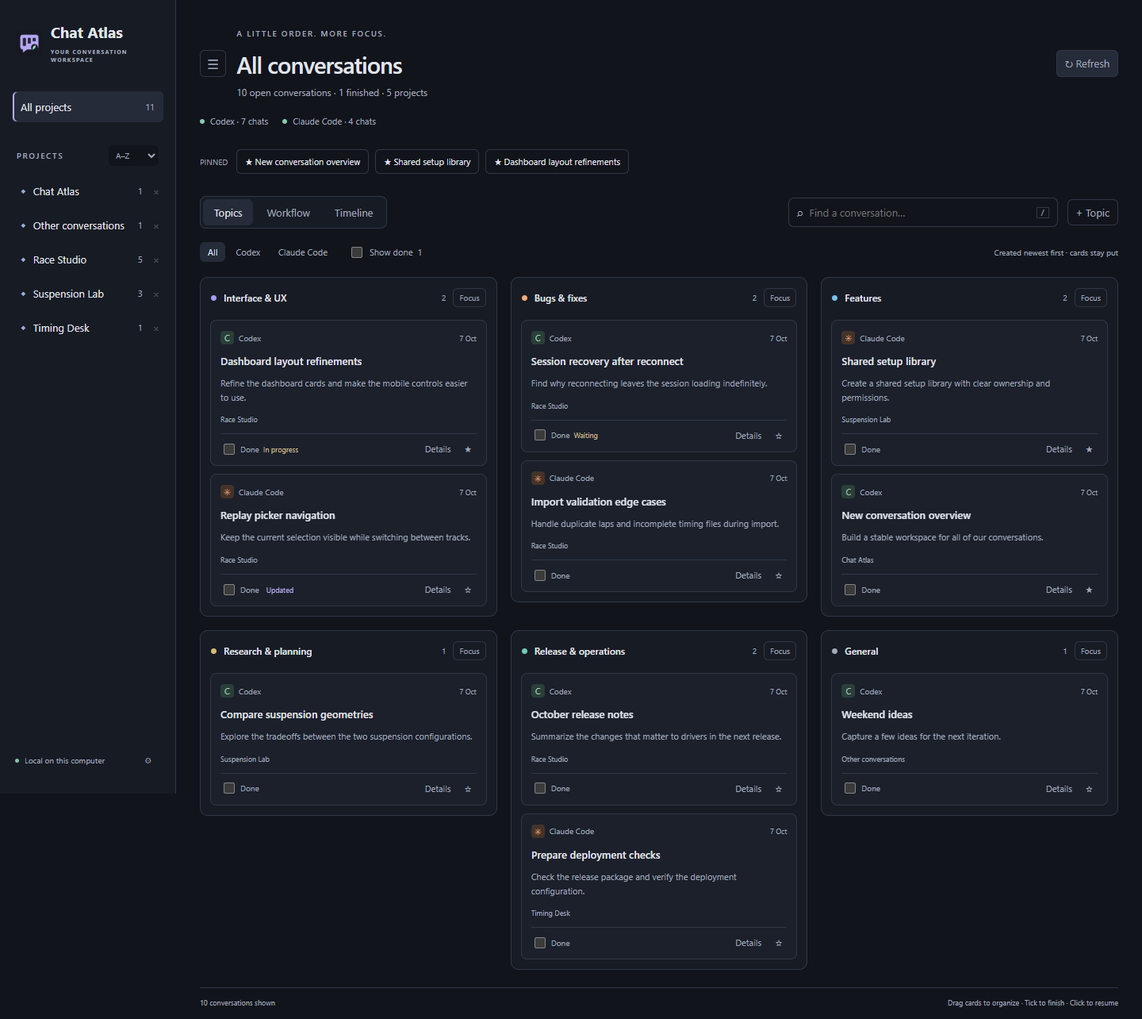
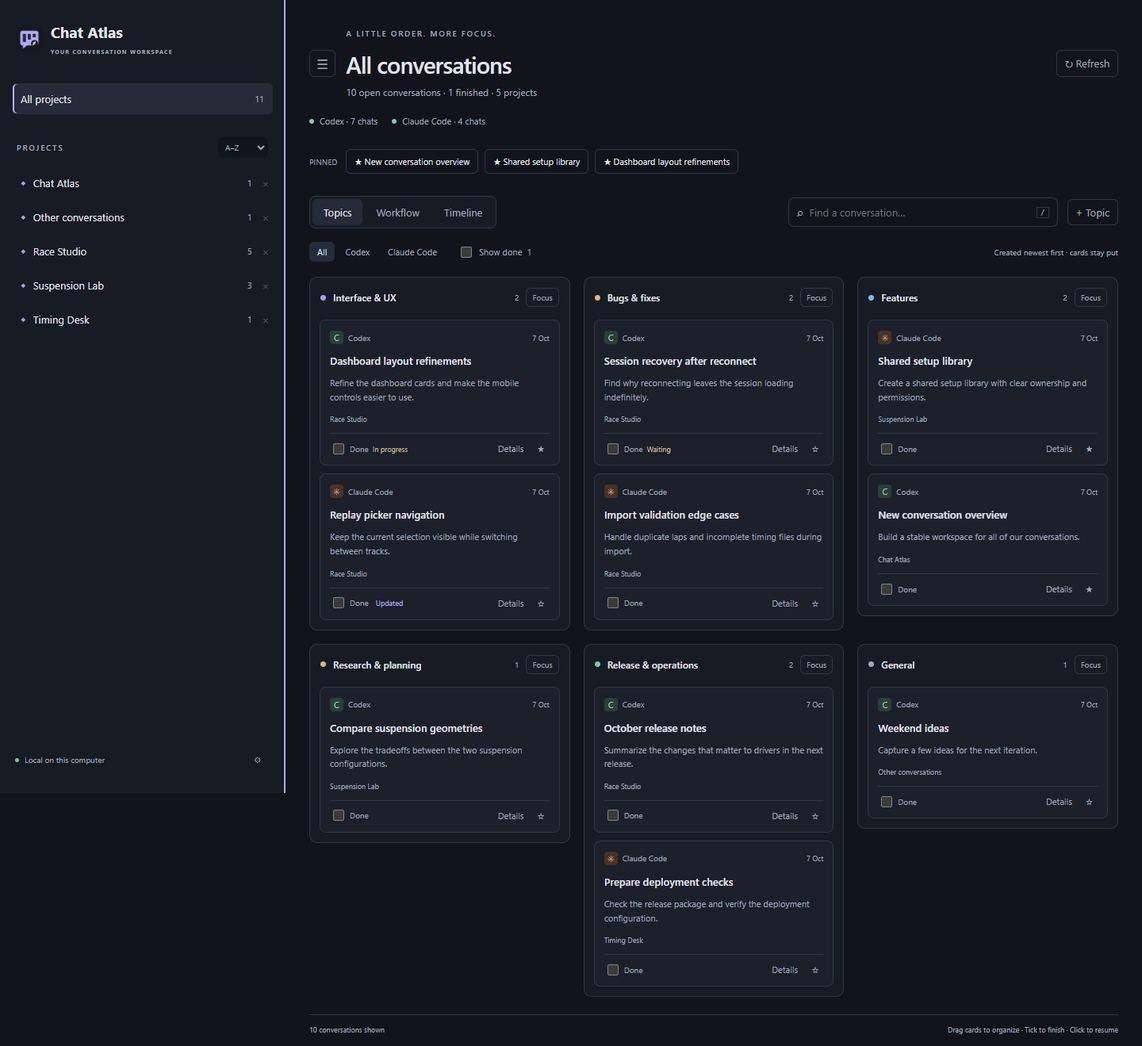
Add a persistent resizable project sidebar

diff --git a/media/board.css b/media/board.css
@@ -2,8 +2,11 @@
 *{box-sizing:border-box}body{margin:0;background:var(--bg);color:var(--text)}button,input,textarea,select{font:inherit;color:inherit}button{cursor:pointer;border:1px solid transparent;background:transparent;border-radius:6px;padding:7px 10px}button:hover{background:var(--hover)}button:focus-visible,input:focus-visible,textarea:focus-visible,select:focus-visible{outline:2px solid var(--accent);outline-offset:2px}input,textarea,select{background:var(--bg);border:1px solid var(--line);border-radius:6px;padding:9px}button:disabled{opacity:.5;cursor:wait}[hidden]{display:none!important}.app{display:flex;min-height:100vh}.rail{width:222px;flex-shrink:0;background:var(--panel);border-right:1px solid var(--line);padding:27px 15px;display:flex;flex-direction:column;position:sticky;top:0;height:100vh}.brand{display:flex;align-items:center;gap:10px;font-size:19px;font-weight:650;margin:0 5px 35px}.brand-icon{color:#b9adff;font-size:32px}.brand small{display:block;font-size:7px;letter-spacing:1.3px;color:var(--muted);margin-top:7px}.eyebrow{font-size:10px;font-weight:600;letter-spacing:1.7px;color:var(--muted);margin:0 0 13px}.rail>.eyebrow{margin:30px 10px 12px}.nav{width:100%;text-align:left;display:flex;align-items:center;gap:9px;margin-bottom:4px;padding:10px;min-width:0}.nav .project-name{overflow:hidden;text-overflow:ellipsis;white-space:nowrap;flex:1}.nav span:last-child{margin-left:auto;color:var(--muted);font-size:11px}.nav.active{background:var(--hover);color:var(--text);box-shadow:inset 2px 0 #b5a9f5}.project-dot{font-size:8px;color:#9bafd1}#projects{overflow:auto}.rail-bottom{margin-top:auto;padding:22px 4px 0;display:flex;align-items:center;gap:7px;color:var(--muted);font-size:10px}.rail-bottom button{margin-left:auto}.local-dot{width:5px;height:5px;background:#80c6a9;border-radius:50%}main{padding:35px 30px 15px;min-width:0;flex:1}header{display:flex;justify-content:space-between;align-items:center;gap:20px;margin-bottom:21px}h1{font-size:29px;letter-spacing:-.9px;font-weight:550;margin:0 0 8px}.subtitle{color:var(--muted);margin:0;font-size:12px}.quiet{border-color:var(--line);white-space:nowrap;color:var(--muted)}.sources{display:flex;gap:18px;flex-wrap:wrap;margin-bottom:28px;color:var(--muted);font-size:11px}.source{display:flex;gap:7px;align-items:center}.source-dot{width:6px;height:6px;border-radius:50%;background:#86cbb1}.source.missing .source-dot,.source.error .source-dot{background:#8c94a5}.source button{padding:0;color:inherit;text-decoration:underline}.toolbar{display:flex;gap:12px;align-items:center;margin-bottom:17px}.segments{display:flex;gap:3px;background:var(--panel);padding:3px;border:1px solid var(--line);border-radius:8px}.segments button{padding:7px 13px;color:var(--muted)}.segments .active{background:var(--hover);color:var(--text)}.search{margin-left:auto;display:flex;align-items:center;gap:8px;border:1px solid var(--line);border-radius:7px;padding:0 10px;max-width:340px;min-width:150px;flex:1;color:var(--muted)}.search input{border:0;background:transparent;min-width:0;width:100%;padding:9px 0}.search kbd{font-size:10px;border:1px solid var(--line);padding:0 4px}.filterbar{display:flex;align-items:center;gap:16px;color:var(--muted);font-size:11px;padding-bottom:19px}.provider-filters{display:flex;gap:3px}.provider-filters button{padding:4px 9px;color:var(--muted)}.provider-filters .active{color:var(--text);background:var(--hover)}.done-filter{display:flex;align-items:center;gap:6px;cursor:pointer}.done-filter input,.done-checkbox{accent-color:#a99dec;cursor:pointer;width:14px;height:14px}#done-count{color:var(--muted)}#order-label{margin-left:auto;font-size:10px}.board{display:grid;grid-template-columns:repeat(auto-fit,minmax(240px,1fr));gap:17px;align-items:start}.column{min-width:0;min-height:175px;background:var(--panel);border:1px solid var(--line);border-radius:10px;padding:13px 10px 10px}.column.drag-over{outline:2px dashed var(--accent)}.column-head{display:flex;align-items:center;gap:9px;margin:0 3px 15px}.topic-dot{width:7px;height:7px;border-radius:50%;background:#a69cf6}.tone-1 .topic-dot{background:#f2ad79}.tone-2 .topic-dot{background:#7abfea}.tone-3 .topic-dot{background:#d6ba73}.tone-4 .topic-dot{background:#72cbb4}.tone-5 .topic-dot{background:#a2abbc}.column-head h2{font-size:12px;font-weight:600;margin:0;overflow-wrap:anywhere}.column-head .count{margin-left:auto;font-size:10px;color:var(--muted)}.card{background:var(--card);border:1px solid var(--line);border-radius:8px;padding:13px 12px 10px;margin-bottom:10px;transition:border-color .15s;position:relative}.card:hover{border-color:var(--muted)}.card.selected{border-color:#aea1f0;box-shadow:0 0 0 1px #aea1f0}.card.done{opacity:.63}.card:last-child{margin-bottom:0}.card-meta{display:flex;align-items:center;gap:6px;font-size:10px;color:var(--muted);margin-bottom:11px}.provider-icon{display:inline-flex;width:17px;height:17px;align-items:center;justify-content:center;border-radius:4px;background:#2a3f39;color:#a4d2bc;font-size:11px}.provider-icon.claude{background:#443329;color:#e4b291}.card-meta time{margin-left:auto;font-size:9px}.card-open{padding:0;text-align:left;border:0;border-radius:2px;width:100%;font-size:13px;font-weight:550;line-height:1.55;display:-webkit-box;-webkit-line-clamp:3;-webkit-box-orient:vertical;overflow:hidden;overflow-wrap:anywhere}.card-open:hover{background:transparent;color:#bdb2f7}.card-preview{font-size:11px;line-height:1.6;color:var(--muted);margin:9px 0 13px;display:-webkit-box;-webkit-line-clamp:2;-webkit-box-orient:vertical;overflow:hidden;overflow-wrap:anywhere}.card-project{font-size:9px;color:var(--muted);white-space:nowrap;overflow:hidden;text-overflow:ellipsis;margin-bottom:12px}.card-bottom{display:flex;align-items:center;gap:5px;border-top:1px solid var(--line);padding-top:8px;font-size:10px}.card-bottom label{display:flex;align-items:center;gap:4px;cursor:pointer;color:var(--muted)}.card-bottom button{padding:2px 5px;font-size:11px;color:var(--muted)}.card-bottom .info{margin-left:auto}.activity{font-size:9px;color:#b7acef;margin-left:4px}.status{font-size:9px;color:#cbbd92}.empty-column{text-align:center;font-size:11px;color:var(--muted);padding:25px 7px;line-height:1.7}.empty-state{grid-column:1/-1;padding:65px 20px;text-align:center;color:var(--muted);border:1px dashed var(--line);border-radius:12px}.empty-state h2{color:var(--text);font-weight:500}.focus-strip{display:flex;align-items:center;gap:8px;overflow:auto;margin:0 0 24px;padding:0 0 4px}.focus-strip>span{font-size:10px;color:var(--muted);white-space:nowrap;margin-right:3px}.focus-item{border:1px solid var(--line);border-radius:6px;max-width:220px;flex-shrink:0;overflow:hidden;text-overflow:ellipsis;white-space:nowrap;font-size:11px}.focus-item.selected{border-color:#b5a9f5}.notice,.errors:not(:empty){border:1px solid var(--line);padding:11px;border-radius:6px;font-size:12px;margin-bottom:15px;line-height:1.6}.errors{color:#e8b98a}footer{display:flex;justify-content:space-between;gap:15px;color:var(--muted);font-size:9px;margin-top:22px;padding-top:12px;border-top:1px solid var(--line)}.detail{width:340px;flex-shrink:0;border-left:1px solid var(--line);background:var(--panel);padding:22px;position:sticky;top:0;height:100vh;overflow:auto}.detail-head{display:flex;align-items:center;justify-content:space-between;color:var(--muted);font-size:10px}.detail h2{font-size:20px;line-height:1.4;overflow-wrap:anywhere}.detail label{display:block;margin:16px 0 6px;font-size:11px;color:var(--muted)}.detail input,.detail select,.detail textarea{width:100%;margin-top:7px}.detail textarea{min-height:95px;resize:vertical}.detail .primary{width:100%;margin-top:12px}.primary{background:#b5a9f5;color:#171421;border:1px solid #b5a9f5;font-weight:600}.primary:hover{background:#c5bcfa}.detail .quiet{width:100%;margin-top:8px}.detail .meta{font-size:10px;color:var(--muted);line-height:1.8;overflow-wrap:anywhere}.excerpt{border-top:1px solid var(--line);margin-top:18px;padding-top:13px}.excerpt b{font-size:10px;color:#b5a9f5}.excerpt p{font-size:11px;line-height:1.7;white-space:pre-wrap;overflow-wrap:anywhere}.detail h3{font-size:12px;margin-top:26px}.board.timeline{display:block}.timeline .column{margin-bottom:18px}.timeline .column-cards{display:grid;grid-template-columns:repeat(auto-fill,minmax(230px,1fr));gap:12px}.timeline .card{margin:0}dialog{background:var(--panel);color:var(--text);border:1px solid var(--line);border-radius:12px;width:410px;padding:24px}dialog::backdrop{background:#0008}dialog label{display:block;font-size:12px;margin:16px 0}dialog input{display:block;width:100%;margin-top:8px}dialog p{color:var(--muted);font-size:11px;line-height:1.6}.dialog-head{display:flex;align-items:center;justify-content:space-between}.dialog-head h2{font-size:20px;margin:0}.dialog-head button{font-size:20px}
 @media(min-width:1600px){.board{grid-template-columns:repeat(3,minmax(240px,1fr))}}@media(max-width:1100px){.rail{width:180px}.brand{font-size:17px}.brand small{font-size:6px}main{padding:25px 20px}#order-label{display:none}.detail{width:300px}.app:has(.detail:not([hidden])) .rail{display:none}.toolbar{flex-wrap:wrap}.search{max-width:none}.board{grid-template-columns:repeat(auto-fit,minmax(220px,1fr))}}@media(max-width:680px){.rail{display:none}main{padding:20px 14px}.detail{position:fixed;right:0;z-index:3;width:min(340px,90vw);box-shadow:-10px 0 40px #0006}header{gap:8px}h1{font-size:24px}.toolbar{gap:9px}.search{order:3;flex-basis:100%}.filterbar{gap:8px;flex-wrap:wrap}.board{grid-template-columns:1fr}.segments{flex:1}.segments button{flex:1}footer span:last-child{display:none}}
 @media(prefers-reduced-motion:reduce){*{transition:none!important}}
+.rail{width:var(--sidebar-width,222px)}@media(max-width:1100px){.rail{width:var(--sidebar-width,180px)}}
+.sidebar-resizer{position:absolute;right:-4px;top:0;bottom:0;width:8px;cursor:col-resize;touch-action:none;z-index:4}.sidebar-resizer::after{content:'';position:absolute;left:3px;top:0;bottom:0;width:2px;background:transparent}.sidebar-resizer:hover::after,.sidebar-resizer:focus-visible::after,.sidebar-resizing .sidebar-resizer::after{background:var(--accent)}.sidebar-resizer:focus-visible{outline:2px solid var(--accent);outline-offset:0}.sidebar-resizing,.sidebar-resizing *{cursor:col-resize!important;user-select:none!important}
 .heading-group{display:flex;align-items:center;gap:13px;min-width:0}.heading-group>div{min-width:0}#sidebar-toggle{flex-shrink:0;font-size:17px;padding:5px 8px}@media(max-width:1100px){.app:has(.detail:not([hidden])) #sidebar-toggle{display:none}}@media(max-width:680px){#sidebar-toggle{display:none}}
 .column-cards{max-height:clamp(320px,60vh,900px);overflow-y:auto;scrollbar-width:thin;scrollbar-color:var(--line) transparent;padding:1px 2px 2px}.timeline .column-cards{max-height:none;overflow:visible}.column-focus{font-size:10px;padding:4px 7px;flex-shrink:0}.board.focused{display:block}.board.focused .column-cards{display:grid;grid-template-columns:repeat(auto-fill,minmax(min(280px,100%),1fr));gap:12px;height:clamp(320px,65vh,1000px);max-height:none;overflow-y:auto;align-content:start}.board.focused .card{margin:0}.board.focused .empty-column{grid-column:1/-1}.detail .meta{white-space:pre-line}@media(min-width:1200px){.board:not(.timeline):not(.focused){grid-template-columns:repeat(3,minmax(220px,1fr))}}
 
 .nav .project-label{flex:1;min-width:0;text-align:left}.nav .project-label .project-name{display:block;margin:0;font-size:inherit;color:inherit}.nav .project-label .project-path{display:block;margin:4px 0 0;color:var(--muted);font-size:9px;overflow:hidden;text-overflow:ellipsis;white-space:nowrap}.nav .project-count{flex-shrink:0}
+.app>main{container-type:inline-size;container-name:board-space}.board:not(.timeline):not(.focused){grid-template-columns:repeat(auto-fit,minmax(min(240px,100%),1fr))}@container board-space (min-width:720px){.board:not(.timeline):not(.focused){grid-template-columns:repeat(3,minmax(0,1fr))}}@container board-space (max-width:800px){#order-label{display:none}.toolbar{flex-wrap:wrap}.search{max-width:none}}
 .project-heading{display:flex;align-items:center;justify-content:space-between;gap:5px;margin:25px 6px 12px}.project-heading .eyebrow{margin:0}.project-heading select{font-size:10px;padding:4px;border-color:transparent;color:var(--muted);max-width:82px}.project-entry{display:flex;align-items:center;gap:2px;border-radius:6px;margin-bottom:4px}.project-entry .nav{flex:1;min-width:0;margin:0;padding-right:5px}.project-actions{display:flex;align-items:center;flex-shrink:0}.project-action{font-size:12px;padding:3px 4px;color:var(--muted);opacity:.4}.project-entry:hover .project-action,.project-entry:focus-within .project-action{opacity:1}.project-action:disabled{opacity:.15;cursor:default}.project-entry[draggable=true]{cursor:grab}.project-entry.drag-over{outline:1px dashed var(--accent)}.hidden-projects{font-size:10px;text-align:left;color:var(--muted);margin-top:5px}.hidden-project-row{display:flex;align-items:center;gap:12px;padding:10px 0;border-top:1px solid var(--line)}.hidden-project-row .project-label{min-width:0;flex:1}.hidden-project-row .project-name,.hidden-project-row .project-path{display:block;overflow-wrap:anywhere}.hidden-project-row .project-path{font-size:10px;color:var(--muted);margin-top:5px}#hidden-project-list{max-height:50vh;overflow:auto}.brand-icon{flex-shrink:0}

diff --git a/media/board.js b/media/board.js
@@ -7,6 +7,8 @@ let view = saved.view || 'topics', project = saved.project || '', provider = sav
 let detailKey = '', excerpts = [], sampled = false, noticeTimer;
 let focusedGroup = saved.focusedGroup || '';
 let sidebarHidden = saved.sidebarHidden === true;
+let sidebarWidth = typeof saved.sidebarWidth === 'number' && Number.isFinite(saved.sidebarWidth) ? saved.sidebarWidth : null;
+let sidebarDrag = null;
 let projectSort = saved.projectSort === 'manual' ? 'manual' : 'alphabetical';
 let projectOrder = Array.isArray(saved.projectOrder) ? saved.projectOrder : [];
 let hiddenProjects = Array.isArray(saved.hiddenProjects) ? saved.hiddenProjects : [];
@@ -14,8 +16,27 @@ let sidebarPreferencesLoaded = false;
 const columnScroll = new Map();
 const $ = id => document.getElementById(id);
 const send = message => host.postMessage(message);
-const persist = () => host.setState({ view, project, provider, query, showDone, selected, focusedGroup, sidebarHidden, projectSort, projectOrder, hiddenProjects });
-const persistSidebar = () => { persist(); send({ type: 'sidebarPreferences', preferences: { projectSort, projectOrder, hiddenProjects } }); };
+const persist = () => host.setState({ view, project, provider, query, showDone, selected, focusedGroup, sidebarHidden, sidebarWidth, projectSort, projectOrder, hiddenProjects });
+const persistSidebar = () => { persist(); send({ type: 'sidebarPreferences', preferences: { projectSort, projectOrder, hiddenProjects, sidebarWidth } }); };
+function sidebarBounds() { return { min: 180, max: Math.max(180, Math.min(520, window.innerWidth - 480)) }; }
+function applySidebarWidth() {
+  const { min, max } = sidebarBounds();
+  if (sidebarWidth === null) document.documentElement.style.removeProperty('--sidebar-width');
+  else document.documentElement.style.setProperty('--sidebar-width', `${Math.round(Math.max(min, Math.min(max, sidebarWidth)))}px`);
+  const resizer = $('sidebar-resizer');
+  const width = Math.round($('project-sidebar').getBoundingClientRect().width || (window.innerWidth <= 1100 ? 180 : 222));
+  resizer.setAttribute('aria-valuemin', String(min)); resizer.setAttribute('aria-valuemax', String(max));
+  resizer.setAttribute('aria-valuenow', String(width)); resizer.setAttribute('aria-valuetext', `${width} pixels`);
+}
+function setSidebarWidth(width) { const { min, max } = sidebarBounds(); sidebarWidth = Math.round(Math.max(min, Math.min(max, width))); applySidebarWidth(); }
+function finishSidebarResize(cancel = false) {
+  if (!sidebarDrag) return;
+  const drag = sidebarDrag; sidebarDrag = null;
+  if (cancel) { sidebarWidth = drag.preferredWidth; applySidebarWidth(); }
+  else persistSidebar();
+  document.body.classList.remove('sidebar-resizing');
+  if ($('sidebar-resizer').hasPointerCapture(drag.pointerId)) $('sidebar-resizer').releasePointerCapture(drag.pointerId);
+}
 function el(tag, className, text) { const n = document.createElement(tag); if (className) n.className = className; if (text !== undefined) n.textContent = text; return n; }
 function button(text, className, fn, title) { const b = el('button', className, text); b.type = 'button'; b.addEventListener('click', fn); if (title) { b.title = title; b.setAttribute('aria-label', title); } return b; }
 function shortDate(ms) { return new Date(ms).toLocaleDateString(undefined, { month: 'short', day: 'numeric' }); }
@@ -85,6 +106,7 @@ function render() {
   const focusKey = activeEl?.closest('.card')?.dataset.key, focusAction = activeEl?.dataset.action;
   const focusColumn = activeEl?.classList.contains('column-focus') ? activeEl.closest('.column').dataset.group : '';
   $('project-sidebar').hidden = sidebarHidden;
+  applySidebarWidth();
   const sidebarLabel = sidebarHidden ? 'Show project sidebar' : 'Hide project sidebar';
   $('sidebar-toggle').title = sidebarLabel;
   $('sidebar-toggle').setAttribute('aria-label', sidebarLabel);
@@ -212,6 +234,7 @@ window.addEventListener('message', e => {
       projectSort = m.sidebarPreferences.projectSort === 'manual' ? 'manual' : 'alphabetical';
       projectOrder = m.sidebarPreferences.projectOrder || [];
       hiddenProjects = m.sidebarPreferences.hiddenProjects || [];
+      sidebarWidth = typeof m.sidebarPreferences.sidebarWidth === 'number' && Number.isFinite(m.sidebarPreferences.sidebarWidth) ? m.sidebarPreferences.sidebarWidth : null;
       sidebarPreferencesLoaded = true; persist();
     }
     data = m; render();
@@ -229,6 +252,28 @@ $('sidebar-toggle').addEventListener('click', () => { sidebarHidden = !sidebarHi
 $('project-sort').addEventListener('change', e => { projectSort = e.target.value; persistSidebar(); render(); });
 $('hidden-projects').addEventListener('click', () => $('hidden-projects-dialog').showModal());
 $('close-hidden-projects').addEventListener('click', () => $('hidden-projects-dialog').close());
+const sidebarResizer = $('sidebar-resizer');
+sidebarResizer.addEventListener('pointerdown', e => {
+  if (e.button !== 0 || sidebarDrag) return;
+  e.preventDefault(); sidebarResizer.focus();
+  sidebarDrag = { pointerId: e.pointerId, x: e.clientX, width: $('project-sidebar').getBoundingClientRect().width, preferredWidth: sidebarWidth };
+  sidebarResizer.setPointerCapture(e.pointerId); document.body.classList.add('sidebar-resizing');
+});
+sidebarResizer.addEventListener('pointermove', e => { if (sidebarDrag?.pointerId === e.pointerId) setSidebarWidth(sidebarDrag.width + e.clientX - sidebarDrag.x); });
+sidebarResizer.addEventListener('pointerup', e => { if (sidebarDrag?.pointerId === e.pointerId) finishSidebarResize(); });
+sidebarResizer.addEventListener('pointercancel', () => finishSidebarResize(true));
+sidebarResizer.addEventListener('lostpointercapture', () => finishSidebarResize());
+sidebarResizer.addEventListener('dblclick', () => { sidebarWidth = null; applySidebarWidth(); persistSidebar(); });
+sidebarResizer.addEventListener('keydown', e => {
+  const { min, max } = sidebarBounds(), width = $('project-sidebar').getBoundingClientRect().width;
+  if (e.key === 'Escape' && sidebarDrag) { e.preventDefault(); e.stopPropagation(); finishSidebarResize(true); return; }
+  if (!['ArrowLeft', 'ArrowRight', 'Home', 'End', 'Enter'].includes(e.key)) return;
+  e.preventDefault();
+  if (e.key === 'Enter') { sidebarWidth = null; applySidebarWidth(); }
+  else setSidebarWidth(e.key === 'Home' ? min : e.key === 'End' ? max : width + (e.key === 'ArrowRight' ? 1 : -1) * (e.shiftKey ? 32 : 16));
+  persistSidebar();
+});
+window.addEventListener('resize', applySidebarWidth);
 document.querySelectorAll('[data-view]').forEach(b => b.addEventListener('click', () => { if (view !== b.dataset.view) focusedGroup = ''; view = b.dataset.view; persist(); render(); }));
 document.querySelectorAll('[data-provider]').forEach(b => b.addEventListener('click', () => { provider = b.dataset.provider; persist(); render(); }));
 $('new-topic').addEventListener('click', () => $('topic-dialog').showModal());

diff --git a/media/board.html b/media/board.html
@@ -10,6 +10,7 @@
     <div class="project-heading"><p class="eyebrow">PROJECTS</p><select id="project-sort" aria-label="Project sort order"><option value="alphabetical">A–Z</option><option value="manual">Manual</option></select></div><div id="projects"></div>
     <button id="hidden-projects" class="hidden-projects" type="button" hidden>Hidden projects</button>
     <div class="rail-bottom"><span class="local-dot"></span> Local on this computer<button id="settings" title="Data source settings" aria-label="Data source settings">⚙</button></div>
+    <div id="sidebar-resizer" class="sidebar-resizer" role="separator" tabindex="0" aria-label="Resize project sidebar" aria-orientation="vertical" aria-controls="project-sidebar" aria-valuemin="180" aria-valuemax="520" aria-valuenow="222" title="Drag to resize · Arrow keys adjust · Double-click or Enter resets"></div>
   </aside>
   <main>
     <header><div class="heading-group"><button id="sidebar-toggle" class="quiet" type="button" title="Hide project sidebar" aria-label="Hide project sidebar" aria-controls="project-sidebar" aria-expanded="true">☰</button><div><p class="eyebrow">A LITTLE ORDER. MORE FOCUS.</p><h1 id="heading">All conversations</h1><p class="subtitle" id="summary">Connecting your local conversations…</p></div></div><button id="refresh" class="quiet">↻ Refresh</button></header>

diff --git a/src/extension.js b/src/extension.js
@@ -49,7 +49,8 @@ function activate(context) {
       if (m.type === 'sidebarPreferences') {
         const p = m.preferences || {};
         const keys = value => Array.isArray(value) ? [...new Set(value.filter(key => typeof key === 'string' && key.length <= 4096).slice(0, 20000))] : [];
-        sidebarPreferences = { projectSort: p.projectSort === 'manual' ? 'manual' : 'alphabetical', projectOrder: keys(p.projectOrder), hiddenProjects: keys(p.hiddenProjects) };
+        const sidebarWidth = typeof p.sidebarWidth === 'number' && Number.isFinite(p.sidebarWidth) ? Math.round(Math.max(180, Math.min(520, p.sidebarWidth))) : null;
+        sidebarPreferences = { projectSort: p.projectSort === 'manual' ? 'manual' : 'alphabetical', projectOrder: keys(p.projectOrder), hiddenProjects: keys(p.hiddenProjects), sidebarWidth };
         const snapshot = structuredClone(sidebarPreferences);
         writeQueue = writeQueue.then(() => context.globalState.update('sidebarPreferences', snapshot));
         await writeQueue; return;

diff --git a/README.md b/README.md
@@ -6,10 +6,10 @@ A local VS Code extension that gives Codex and Claude Code conversations a stabl
 
 ## Start
 
-Download **chat-atlas-0.1.2.vsix** from the [latest release](https://github.com/dloppini/chat-atlas/releases/latest). In VS Code, open **Extensions**, choose **… → Install from VSIX…**, and select the downloaded file. Or run this command from your download folder:
+Download **chat-atlas-0.1.3.vsix** from the [latest release](https://github.com/dloppini/chat-atlas/releases/latest). In VS Code, open **Extensions**, choose **… → Install from VSIX…**, and select the downloaded file. Or run this command from your download folder:
 
 ```powershell
-code --install-extension ./chat-atlas-0.1.2.vsix
+code --install-extension ./chat-atlas-0.1.3.vsix
 ```
 
 Run **Chat Atlas: Open Board** from the Command Palette, or press **Ctrl+Alt+A** (macOS: **Cmd+Alt+A**). After first activation, **Chat Atlas** is also available in the status bar. Keep the board in the editor while working in the provider sidebar.
@@ -29,6 +29,7 @@ Requires VS Code 1.96 or newer and local conversation history from Codex or Clau
 - Drag cards between topics or workflow columns. Manual topic choices are retained. Existing cards are not automatically reclassified after a new topic is created.
 - Pin important chats with the star. Their shortcuts remain visible above the board.
 - Use the sidebar toggle beside the page heading to hide or show the project list and give the board more space. Your choice is remembered when you reopen the board. Narrow layouts continue to hide the sidebar automatically.
+- Drag the sidebar's right edge to resize it. Its width is saved across board reopenings and VS Code restarts. Focus the edge and use the arrow keys to adjust it, or double-click it (or press Enter) to restore the default width. The board adapts to the available space.
 - Cards preview the latest conversation message, skipping internal context metadata. Handoff notes remain available in Details.
 - Filter by project/provider or search titles, latest message previews, topics, projects, and notes. Press **/** to focus search. **Escape** closes details.
 - Equivalent Windows path spellings share one project entry. Different folders with the same project name stay separate and show their paths below the name. Hover an entry to see its full folder path.

diff --git a/VERIFICATION.md b/VERIFICATION.md
@@ -1,5 +1,13 @@
 # Verification — 6 October 2026
 
+## Resizable sidebar — 7 October 2026
+
+- Added a pointer- and keyboard-accessible separator at the sidebar's right edge. Width is saved with the existing sidebar preferences; double-click or Enter restores the default, and Escape cancels a drag.
+- Sidebar width stays within 180–520 px and leaves room for the board. Conversation columns adapt to their container rather than only the window width.
+- All 15 Node tests and JavaScript checks passed. Browser demo checks passed for native pointer dragging, bounds, arrow/Home/End controls, cancellation, reset, hide/show, retained manual order, and restored width after discarding the prior webview state.
+- Checked 1440, 1200, 1100, 800, 681, and 390 px window widths without page-level horizontal overflow. The sidebar remains hidden on narrow layouts and restores its preferred width when the window grows.
+- Screenshots contain fictional conversations. Persistence was checked through the shared preview's durable preference store; a live VS Code restart was not exercised.
+
 ## Sidebar management — 7 October 2026
 
 - Added reversible project hiding, a Hidden projects restore dialog, alphabetical sorting, and manual ordering with native drag/drop and keyboard-accessible up/down controls.

diff --git a/CHANGELOG.md b/CHANGELOG.md
@@ -1,5 +1,11 @@
 # Changelog
 
+## 0.1.3 — 7 October 2026
+
+- Resize the project sidebar by dragging its right edge or using the arrow keys, and retain its width when reopening the board.
+- Double-click the edge or press Enter to restore the default width.
+- Keep the conversation board responsive as the sidebar grows or the window narrows.
+
 ## 0.1.2 — 7 October 2026
 
 - Remove projects from the sidebar and restore them through Hidden projects.
